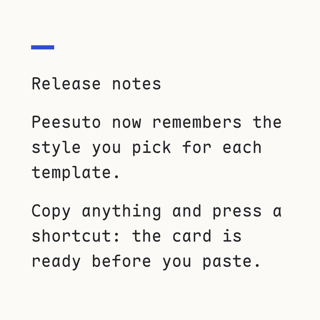
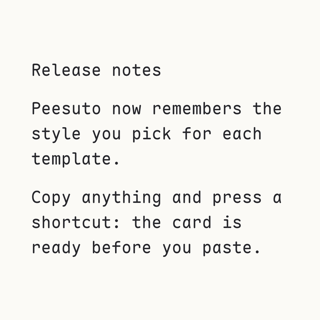
refactor(templates): drop ornaments that encode nothing
Following the kami/ljg rule that every line or shape must encode a
separation, a state or a relationship, the decorative marks go: the square
on Paper, the rule under Ink, the band under Poster, the masthead bar of the
reading page, the rail beside the editorial column, the book excerpt's side
rule (the quote mark already says "quoted"), the code notebook's gutter bar,
the bar under a big number and the ticks beside ledger records. Their slots
stay in the style tables as typed nulls, so any one can come back as a
token change.

Chat bubbles sat on a cool blue-grey with cool names and times (2.7:1); they
now use warm greys that meet 4.5:1. The terminal's hue arc and window dots,
the info card and the colour-field grounds are owner-approved and unchanged.

diff --git a/core/src/templates/compose.ts b/core/src/templates/compose.ts
@@ -70,36 +70,46 @@ export const TEMPLATE_GROW: Partial<Record<TemplateId, readonly number[]>> = {
   document: [1.4, 1.2, 1.1, 1], list: [1.45, 1.3, 1.15, 1], chat: [1.3, 1.15, 1], comparison: [1.4, 1.25, 1.1, 1], table: [1.3, 1.15, 1], info: [1.3, 1.15, 1],
 };
 
+/* Ornament slots. Every line or shape must encode separation, state or a
+ * relationship; the slots below drew none, so every style leaves them null.
+ * They stay typed so a style can bring one back as a token change. */
+type RuleSlot = { readonly width: number; readonly height: number; readonly color: string } | null;
+type MarkSlot = { readonly size: number; readonly gap: number; readonly color: string } | null;
+type BandSlot = { readonly height: number; readonly color: string } | null;
+type BarSlot = { readonly width: number; readonly height: number; readonly gap: number; readonly color: string } | null;
+type RailSlot = { readonly width: number; readonly gap: number; readonly color: string } | null;
+type MarkerSlot = { readonly size: number; readonly color: string } | null;
+
 /** The text template: sizes are clamped to SIZES between minSize and maxSize. */
 export const TEXT_STYLES = {
-  /** Paper: warm page, left, regular; a vermilion square marks the top-left. */
+  /** Paper: warm page, left, regular; vermilion only for an accented word. */
   classic: { background: "#f4f1ea", signature: "#6b675e", ink: "#18181b", accent: "#e5482e", accentBold: true, bold: false, align: "left", margin: 104, minSize: 40, maxSize: 96, leading: 1.24,
-    rule: null, mark: { size: 24, gap: 40, color: "#e5482e" }, band: null },
-  /** Ink: night ground, centred bold, a yellow rule under the text. */
+    rule: null as RuleSlot, mark: null as MarkSlot, band: null as BandSlot },
+  /** Ink: night ground, centred bold; yellow only for an accented word. */
   editorial: { background: "#121316", signature: "#8c887f", ink: "#f2f0ea", accent: "#f4c430", accentBold: false, bold: true, align: "center", margin: 112, minSize: 40, maxSize: 128, leading: 1.16,
-    rule: { width: 96, height: 8, color: "#f4c430" }, mark: null, band: null },
-  /** Poster: vermilion field, huge tight type, an ink band pinned to the bottom edge. */
+    rule: null, mark: null, band: null },
+  /** Poster: vermilion field, huge tight type. */
   poster: { background: "#e5482e", signature: "#1c1310", ink: "#fff8ee", accent: "#18181b", accentBold: false, bold: true, align: "left", margin: 88, minSize: 48, maxSize: 160, leading: 1.02,
-    rule: null, mark: null, band: { height: 28, color: "#18181b" } },
+    rule: null, mark: null, band: null },
 } as const;
 
 export const DOCUMENT_STYLES = {
-  /** Reading page: full-bleed white page, a cobalt masthead bar. */
-  classic: { background: "#fbfaf6", signature: "#6b675e", margin: 104, measure: 9999, masthead: { width: 56, height: 10, gap: 56, color: "#2d4fd0" }, rail: null,
+  /** Reading page: full-bleed white page; cobalt marks second-level headings and list items. */
+  classic: { background: "#fbfaf6", signature: "#6b675e", margin: 104, measure: 9999, masthead: null as BarSlot, rail: null as RailSlot,
     h1: { size: 64, color: "#18181b", leading: 1.1 }, h2: { size: 48, color: "#2d4fd0", leading: 1.1 }, h3: { size: 40, color: "#18181b", leading: 1.1 },
     body: { size: 40, bold: false, color: "#26262b", leading: 1.14 }, lede: null, gap: 32, headingGap: 48, afterHeading: 0,
     list: { indent: 56, gap: 16, dot: 12, color: "#2d4fd0" }, code: { fill: "#18191d", ink: "#e9e7e0", size: 36, leading: 1.02, radius: 16, pad: 32 } },
-  /** Editorial column: cobalt rail down the left, narrow measure, bold lede. */
-  editorial: { background: "#efebe2", signature: "#6b675e", margin: 96, measure: 800, masthead: null, rail: { width: 12, gap: 56, color: "#2d4fd0" },
+  /** Editorial column: narrow measure, big title, bold lede. */
+  editorial: { background: "#efebe2", signature: "#6b675e", margin: 96, measure: 800, masthead: null, rail: null,
     h1: { size: 80, color: "#18181b", leading: 1.04 }, h2: { size: 40, color: "#2d4fd0", leading: 1.1 }, h3: { size: 36, color: "#2d4fd0", leading: 1.1 },
     body: { size: 40, bold: false, color: "#2a2a2f", leading: 1.14 }, lede: { size: 52, bold: true, color: "#18181b", leading: 1.1 }, gap: 36, headingGap: 56, afterHeading: 4,
     list: { indent: 56, gap: 16, dot: 12, color: "#2d4fd0" }, code: { fill: "#1b2a6b", ink: "#eef1ff", size: 36, leading: 1.02, radius: 0, pad: 32 } },
 } as const;
 
 export const QUOTE_STYLES = {
-  /** Book excerpt: cream page, side rule, regular text, small sienna mark (an SVG, not a glyph). */
+  /** Book excerpt: cream page, regular text, small sienna mark (an SVG, not a glyph). */
   classic: { background: "#efe6d3", signature: "#7a5230", ink: "#2a2118", bold: false, margin: 112, sizes: [64, 56, 52, 48, 44, 40], leading: 1.2,
-    mark: { size: 64, gap: 36, color: "#b5652a" }, rule: { width: 6, gap: 48, color: "#cdb58f" },
+    mark: { size: 64, gap: 36, color: "#b5652a" }, rule: null as RailSlot,
     author: { size: 36, bold: false, color: "#8a5a2e", gap: 48, ruleWidth: 40, ruleHeight: 4 } },
   /** Statement: espresso ground, big bold text, large amber mark; the author after an amber dash shape. */
   editorial: { background: "#1a1511", signature: "#a8957a", ink: "#fbf3e4", bold: true, margin: 96, sizes: [96, 80, 72, 64, 56, 48, 44], leading: 1.1,
@@ -129,8 +139,8 @@ export const CODE_STYLES = {
     lang: { size: 32, bold: false, color: "#6e7482", gap: 0 },
     syntax: { keyword: "#7cb7ff", string: "#9fdc8a", comment: "#7d8494", number: "#f4c430", function: "#f5a45d", type: "#5fd0c5",
       property: "#eaa3c9", literal: "#f4c430", meta: "#ff7b72", punct: "#a7adb9" } },
-  /** Notebook: light page, green gutter bar, zebra rows. */
-  editorial: { background: "#f3f1ea", signature: "#6b675e", backdrop: null, panel: null, outer: 88, gutter: { width: 6, gap: 40, color: "#2f9e5f" }, zebra: { color: "#e9e6dc", pad: 16, radius: 6 },
+  /** Notebook: light page, zebra rows, the language in green. */
+  editorial: { background: "#f3f1ea", signature: "#6b675e", backdrop: null, panel: null, outer: 88, gutter: null as RailSlot, zebra: { color: "#e9e6dc", pad: 16, radius: 6 },
     lineNumbers: { color: "#a8a397", gap: 28 },
     ink: "#1d1d20", sizes: [52, 48, 44, 40, 36], floor: 36, leading: 1.1,
     lang: { size: 32, bold: true, color: "#2f9e5f", gap: 28 },
@@ -139,12 +149,12 @@ export const CODE_STYLES = {
 } as const;
 
 export const STAT_STYLES = {
-  /** Big number: yellow field, left-aligned value, ink bar, label. */
+  /** Big number: yellow field, left-aligned value, the label below. */
   classic: { background: "#f4c430", signature: "#4a3f1c", margin: 96, band: null, valueSizes: [160, 144, 128, 112, 96, 80], valueColor: "#18181b", valueLeading: 0.92,
-    bar: { width: 120, height: 12, gap: 48, color: "#18181b" }, labelSize: 56, labelColor: "#18181b", labelLeading: 1.14, labelMeasure: 820 },
+    bar: null as BarSlot, labelGap: 64, labelSize: 56, labelColor: "#18181b", labelLeading: 1.14, labelMeasure: 820 },
   /** Metric strip: night ground crossed by a full-bleed yellow band holding the value. */
   editorial: { background: "#121316", signature: "#8c887f", margin: 96, band: { color: "#f4c430", pad: 56, gap: 56 }, valueSizes: [144, 128, 112, 96, 80, 72], valueColor: "#18181b", valueLeading: 0.92,
-    bar: null, labelSize: 52, labelColor: "#f2f0ea", labelLeading: 1.16, labelMeasure: 860 },
+    bar: null, labelGap: 0, labelSize: 52, labelColor: "#f2f0ea", labelLeading: 1.16, labelMeasure: 860 },
 } as const;
 
 export const LIST_STYLES = {
@@ -158,9 +168,9 @@ export const LIST_STYLES = {
 
 export const CHAT_STYLES = {
   /** Bubbles hug their text (at most maxRatio of the width); name and time sit above the bubble. */
-  classic: { background: "#e8ecf1", signature: "#5c5f66", margin: 72, layout: "bubbles", size: 40, leading: 1.12, maxRatio: 0.78, radius: 32, padX: 32, padY: 22, gap: 36,
+  classic: { background: "#ece8e1", signature: "#6b675e", margin: 72, layout: "bubbles", size: 40, leading: 1.12, maxRatio: 0.78, radius: 32, padX: 32, padY: 22, gap: 36,
     left: { fill: "#ffffff", ink: "#18181b" }, right: { fill: "#0f7a70", ink: "#ffffff" },
-    name: { size: 32, bold: true, color: "#56606e", gap: 10 }, time: { size: 32, color: "#8a919c" } },
+    name: { size: 32, bold: true, color: "#5a554c", gap: 10 }, time: { size: 32, color: "#6b675e" } },
   /** Transcript: speaker column coloured per speaker, hairlines between turns. */
   editorial: { background: "#f6f2ea", signature: "#6b675e", margin: 88, layout: "transcript", size: 40, leading: 1.14, ink: "#18181b", nameCol: 300, gap: 36, rule: "#dcd6ca",
     speakers: ["#0f7a70", "#d23f25", "#2d4fd0", "#9a5a12"], name: { size: 32, bold: true }, time: { size: 32, color: "#8c887f" } },
@@ -172,7 +182,7 @@ export const TABLE_STYLES = {
     card: { fill: "#ffffff", radius: 20 }, head: { fill: "#1f5f47", ink: "#ffffff" }, zebra: "#f2f5f1", ink: "#18181b", divider: "#e1e6df" },
   /** Ledger: one record per row — the first cell as title, the other cells as label/value fields, up to perRow side by side. */
   editorial: { background: "#f2efe6", signature: "#6b675e", margin: 88, layout: "ledger", titleSize: 48, labelSize: 32, valueSize: 40, leading: 1.12, perRow: 3,
-    marker: { size: 16, color: "#1f5f47" }, ink: "#18181b", label: "#7d786d", rule: "#d6cfbf", gap: 40, fieldGap: 16 },
+    marker: null as MarkerSlot, ink: "#18181b", label: "#7d786d", rule: "#d6cfbf", gap: 40, fieldGap: 16 },
 } as const;
 
 export const COMPARISON_STYLES = {
@@ -791,7 +801,8 @@ function layoutAt(plan: TemplatePlan, measure: TemplateMeasure, view: View, k = 
           bold: style.bold, color: style.ink, group: group++, boldAt: line.map((g) => g.bold), ...(line.some((g) => g.color) ? { colorAt: line.map((g) => g.color) } : {}) });
       }
       if (style.mark) rect(left, top - style.mark.gap - style.mark.size, style.mark.size, style.mark.size, style.mark.color);
-      if (style.rule) rect(style.align === "center" ? W / 2 - style.rule.width / 2 : left, top + total + Math.round(size * 0.6), style.rule.width, style.rule.height, style.rule.color);
+      const rule: RuleSlot = style.rule;
+      if (rule) rect(style.align === "center" ? W / 2 - rule.width / 2 : left, top + total + Math.round(size * 0.6), rule.width, rule.height, rule.color);
       bottom = top + total + ruleExtra(size) + band;
       if (style.band) { const b = rect(0, 0, W, band, style.band.color); pinned.add(b); pinBottom = b; }
       break;
@@ -944,7 +955,8 @@ function layoutAt(plan: TemplatePlan, measure: TemplateMeasure, view: View, k = 
       const s = grown(styleOf(DOCUMENT_STYLES), k);
       layout.background = s.background; margin = s.margin; signatureColor = s.signature;
       let x = margin, width = innerW(), y = margin;
-      if (s.rail) { x = margin + s.rail.width + s.rail.gap; width = Math.min(W - margin - x, s.measure); }
+      if (s.rail) x = margin + s.rail.width + s.rail.gap;
+      width = Math.min(W - margin - x, s.measure);
       const top = y;
       if (s.masthead) { rect(x, y, s.masthead.width, s.masthead.height, s.masthead.color); y += s.masthead.height + s.masthead.gap; }
       const blocks = content.blocks ?? content.paragraphs.map((text) => ({ kind: "paragraph" as const, text }));
@@ -1072,6 +1084,7 @@ function layoutAt(plan: TemplatePlan, measure: TemplateMeasure, view: View, k = 
       } else {
         y += block(content.value, margin, y, innerW(), size, true, s.valueColor, { leading: s.valueLeading });
         if (s.bar) { y += s.bar.gap; rect(margin, y, s.bar.width, s.bar.height, s.bar.color); y += s.bar.height + s.bar.gap; }
+        else y += s.labelGap;
       }
       y += block(content.label, margin, y, Math.min(innerW(), s.labelMeasure), s.labelSize, false, s.labelColor, { leading: s.labelLeading });
       bottom = settle(top, y);
@@ -1196,11 +1209,12 @@ function layoutAt(plan: TemplatePlan, measure: TemplateMeasure, view: View, k = 
       } else {
         // Ledger: header[0] labels each record's title; every header is drawn with its value, so nothing is dropped.
         const fields = cols - 1, per = Math.min(s.perRow, Math.max(1, fields));
-        const x0 = margin + s.marker.size + 24, fieldW = (W - margin - x0) / per;
+        const marker: MarkerSlot = s.marker;
+        const x0 = margin + (marker ? marker.size + 24 : 0), fieldW = (W - margin - x0) / per;
         for (const [r, row] of content.rows.entries()) {
           if (r) { y += s.gap; rect(margin, y, innerW(), 2, s.rule); y += 2 + s.gap; }
           y += block(content.headers[0]!, x0, y, W - margin - x0, s.labelSize, true, s.label, { leading: 1.2, markdown: false, secondary: true }) + 4;
-          rect(margin, y + mid(s.titleSize) - s.marker.size / 2, s.marker.size, s.marker.size, s.marker.color);
+          if (marker) rect(margin, y + mid(s.titleSize) - marker.size / 2, marker.size, marker.size, marker.color);
           y += block(row[0]!, x0, y, W - margin - x0, s.titleSize, true, s.ink, { leading: s.leading, markdown: false }) + 20;
           let rowMax = 0;
           for (let c = 1; c < cols; c++) {

diff --git a/CHANGELOG.md b/CHANGELOG.md
@@ -7,6 +7,7 @@ section here becomes one.
 
 ## Unreleased
 
+- Cards lose ornaments that meant nothing: the square on Paper text, the rule under Ink text, the band under Poster, the bar atop a reading page and the rail beside an editorial column, the side rule of a book excerpt, the gutter bar of a code notebook, the bar under a big number and the ticks beside ledger records. Chat bubbles sit on a warm grey instead of a cool blue-grey, with warm names and times that meet 4.5:1.
 - A signature on your cards: Settings › Templates › Signature takes one short line (say "@you · example.com", up to 40 characters) drawn small at the foot of every card except QR codes, in a quiet colour each style picks. Empty by default. A signature the card font cannot draw is left off instead of failing the card.
 - Cards stay readable on a phone: no text below 13 px (labels, times and line numbers 11 px) when a card is shown 390 px wide, which is 36/32 px on a 1080 canvas and scales with wider ones (a 16:9 card is a scaled 1080 card). Long content grows the card or scrolls instead of shrinking type, code wraps, a sideways diagram too wide for the floor turns top-down, and table columns keep whole words. The automatic frame starts at 1080 for everything.
 - Onboarding redesigned as three quiet steps on the panel’s glass: what Peesuto does (one real card appearing after a line of text and ⌥⌘1; static with Reduce Motion), the Accessibility permission with its live state, and the two shortcuts to remember. System accent and standard controls only; the teal glows, tinted icon tiles and the Preferences step are gone (those preferences keep their defaults and live in Settings). The window is 680×500.

diff --git a/docs/templates.md b/docs/templates.md
@@ -97,6 +97,20 @@ are `DIAGRAM_STYLES`; size tiers `DIAGRAM_TIERS`, both in
 `core/src/templates/compose.ts`. Arrowheads and diamonds are small SVGs the
 engine bakes; everything else is boxes and text.
 
+### Decoration (all templates)
+
+Every line or shape encodes something: a separation (hairlines between rows,
+cards, panels, bands), a state (before/after, a secret) or a relationship (a
+bullet to its item, a dash to an author, an edge between nodes). Rules, marks
+and bars that only decorate are not drawn: the style tables keep their slots
+(`mark`, `rule`, `band`, `masthead`, `rail`, `gutter`, `bar`, `marker`) as
+`null`, so a style can bring one back as a token change. One accent colour per
+style, with a role (an accented word, a heading level, a bullet). Greys are
+warm; ink is a warm or dark near-black, never pure black. Owner-approved
+exceptions: the code terminal's hue-arc backdrop and window dots, the info
+card's pill and icons, and colour-field grounds (Poster, Big number, the
+comparison panels), which are the style rather than an accent on it.
+
 ### Readability floor (all templates)
 
 Cards are mostly looked at on a phone, where a card of any width is shown
